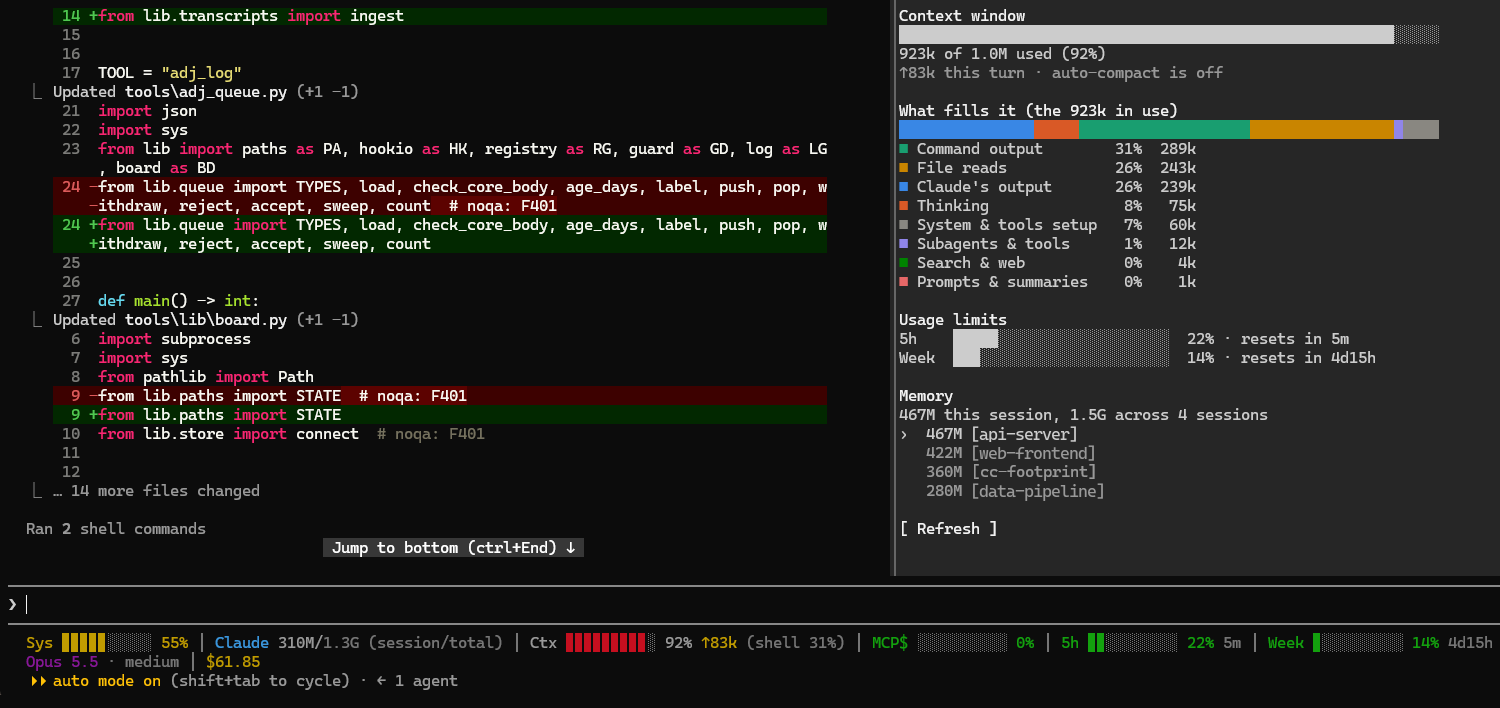
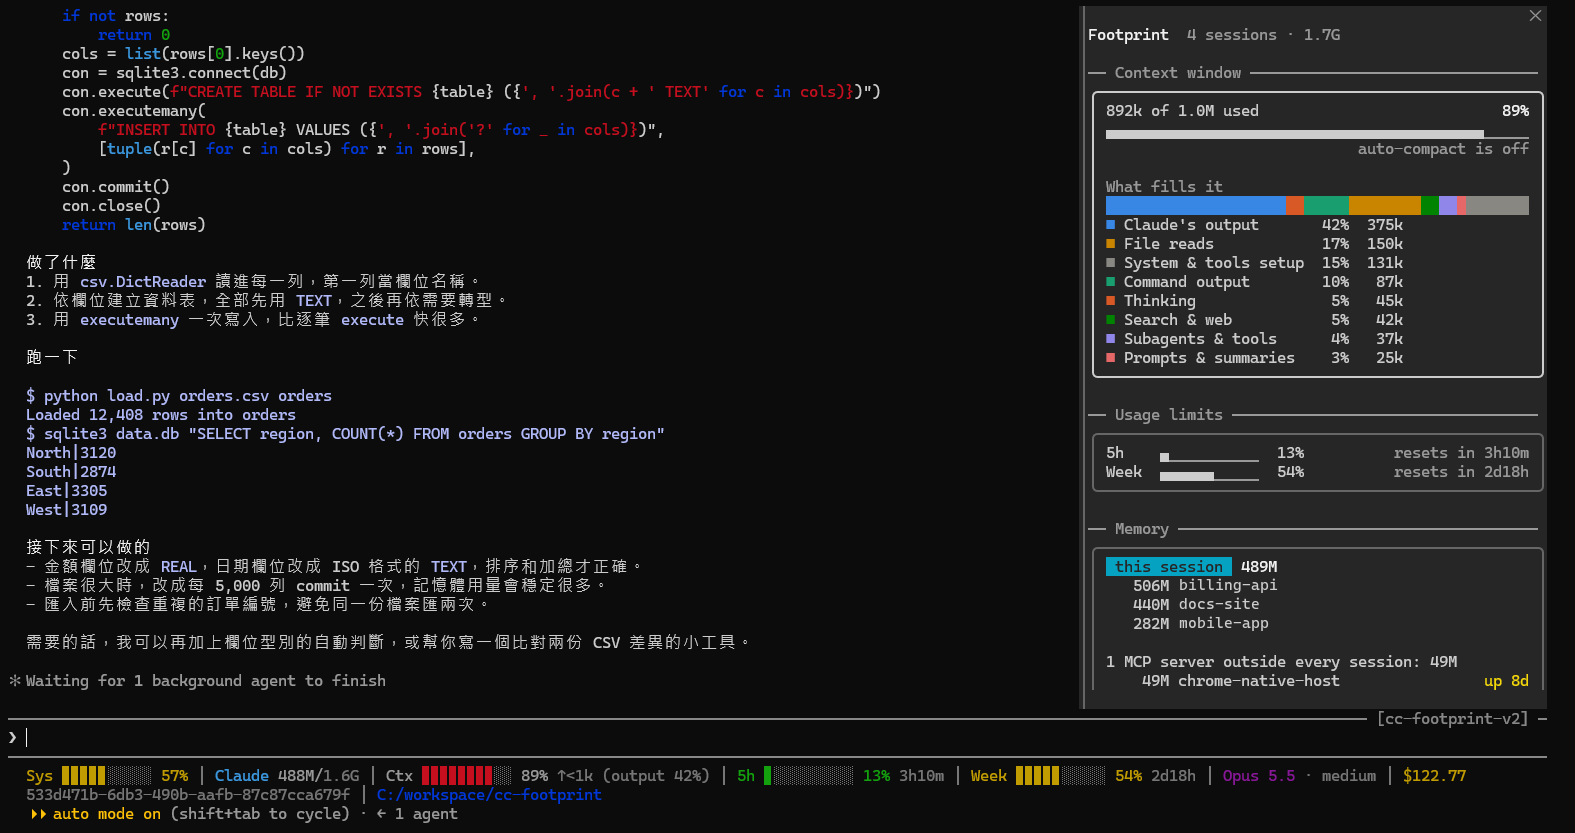
docs: new screenshots, one set per README
The pane in its new layout and the tray menu with the Language menu, in
English for README.md and in Traditional Chinese for README.zh-TW.md
(cc-footprint.zh-TW.png, tray-menu.zh-TW.png); the names of other
sessions masked. The captions say what the new images show.

diff --git a/README.md b/README.md
@@ -15,11 +15,11 @@ cc-footprint is for all three.
 Every Claude Code session has a footprint: the **context** it carries and the **RAM** it holds. cc-footprint measures both and puts them back in that session's own statusline — what is filling the context, which session is eating the memory — so you can see it, and so you can shrink it. How much you see is up to you: the statusline shows only the items you tick, a toast speaks up only when something happens, and a pane opens only when you want the details.
 
 <p>
-  <img src="screenshots/cc-footprint.png" alt="A Claude Code session: the statusline on its last two lines, the /footprint pane at the right" width="75%">
-  <img src="screenshots/tray-menu.png" alt="The tray menu: one switch per statusline item, in three groups" width="22%">
+  <img src="screenshots/cc-footprint.png" alt="A Claude Code session: the statusline at the bottom, the /footprint pane at the right" width="75%">
+  <img src="screenshots/tray-menu.png" alt="The tray menu: one switch per statusline item, in three groups, and the Language menu" width="22%">
 </p>
 
-*Large image: the context is 92% full, and this turn alone added 83k tokens; command output, file reads and Claude's own output fill most of it. All sessions together hold 1.3 GB, this one 310 MB. The last two lines are the statusline; at the right is the `/footprint` pane. Small image: the tray menu, one switch per item.*
+*Large image: the context is 89% full, 892k of a 1M window; Claude's own output, file reads, and the system prompt with the tool definitions fill most of it. Four sessions hold 1.7 GB, this one 489 MB, and Chrome's bridge to its extension runs outside every session. The statusline is at the bottom; at the right is the `/footprint` pane. Small image: the tray menu, one switch per item, with the Language menu open.*
 
 > Runs on Windows, Linux and macOS.
 

diff --git a/README.zh-TW.md b/README.zh-TW.md
@@ -15,11 +15,11 @@
 每個 Claude Code session 都有自己的 footprint：背著的 **context**，和佔著的 **RAM**。cc-footprint 把這兩樣量出來，放回那個 session 自己的狀態列 — 是什麼在塞 context、是哪個 session 在吃記憶體，看得到，也就降得下來。要看多少由你決定：狀態列只放你勾的，有事才跳提示，想看明細再打開面板。
 
 <p>
-  <img src="screenshots/cc-footprint.png" alt="一個 Claude Code session：最下面兩行是狀態列，右側是 /footprint 面板" width="75%">
-  <img src="screenshots/tray-menu.png" alt="工具列選單：每個狀態列項目一個開關，分成三組" width="22%">
+  <img src="screenshots/cc-footprint.zh-TW.png" alt="一個 Claude Code session：最下面是狀態列，右側是 /footprint 面板" width="75%">
+  <img src="screenshots/tray-menu.zh-TW.png" alt="工具列選單：每個狀態列項目一個開關，分成三組，以及語言選單" width="22%">
 </p>
 
-*大圖：context 用了 92%，光這一輪就加了 83k token；塞滿它的主要是指令輸出、讀檔和 Claude 自己的輸出。全部 session 共用 1.3 GB，這個 session 佔 310 MB。最下面兩行是狀態列，右側是 `/footprint` 面板。小圖：工具列選單，每個項目一個開關。*
+*大圖：context 用了 89%，1M 視窗裡的 892k；塞滿它的主要是 Claude 自己的輸出、讀檔，以及系統提示與工具定義。四個 session 共用 1.7 GB，這個 session 佔 488 MB，另有 Chrome 擴充套件的橋接程式不屬於任何 session。最下面是狀態列，右側是 `/footprint` 面板。小圖：工具列選單，每個項目一個開關，語言選單展開著。*
 
 > 支援 Windows、Linux 和 macOS。
 

diff --git a/CLAUDE.md b/CLAUDE.md
@@ -89,7 +89,7 @@ English, German, Spanish, French, Japanese, Korean, and Simplified and Tradition
 
 - `README.md` and `README.zh-TW.md` mirror each other section by section: change both.
 - `scripts/optional.js` names the README section "Hand browser work to a subagent"; keep it in step.
-- Images: `screenshots/social-preview.png` is rendered from `social-preview.html` (its header says how) and uploaded by hand under GitHub Settings → Social preview; `banner.png` is its top 1280×380. `cc-footprint.png` and `tray-menu.png` are screenshots of a real session: before publishing one, mask the names of other sessions in it. `monitor/icon.*` come from `scripts/make-icon.py`.
+- Images: `screenshots/social-preview.png` is rendered from `social-preview.html` (its header says how) and uploaded by hand under GitHub Settings → Social preview; `banner.png` is its top 1280×380. `cc-footprint.png` and `tray-menu.png` (and their `.zh-TW.png` twins, which README.zh-TW.md shows) are screenshots of a real session: before publishing one, mask the names of other sessions in it, and keep each README's caption in step with what its image shows. `monitor/icon.*` come from `scripts/make-icon.py`.
 
 ## Key commands
 
